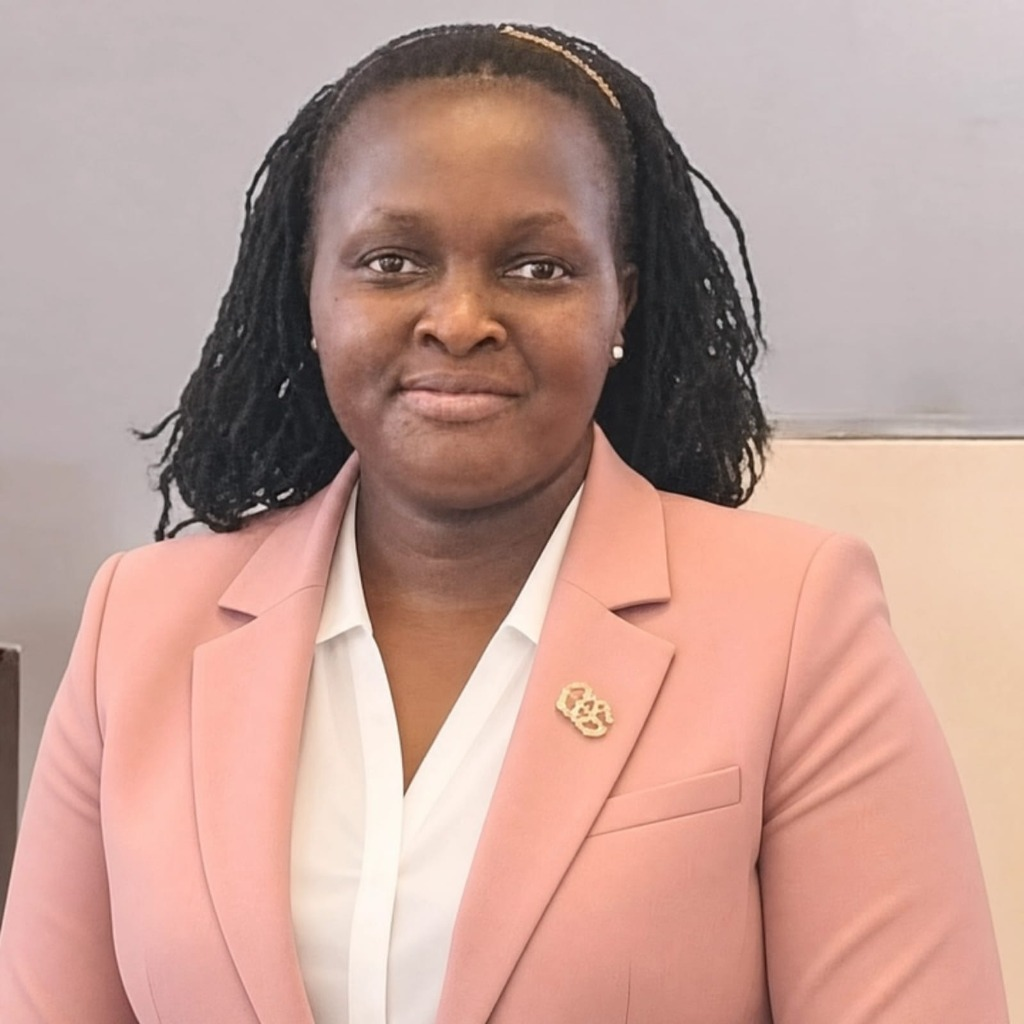
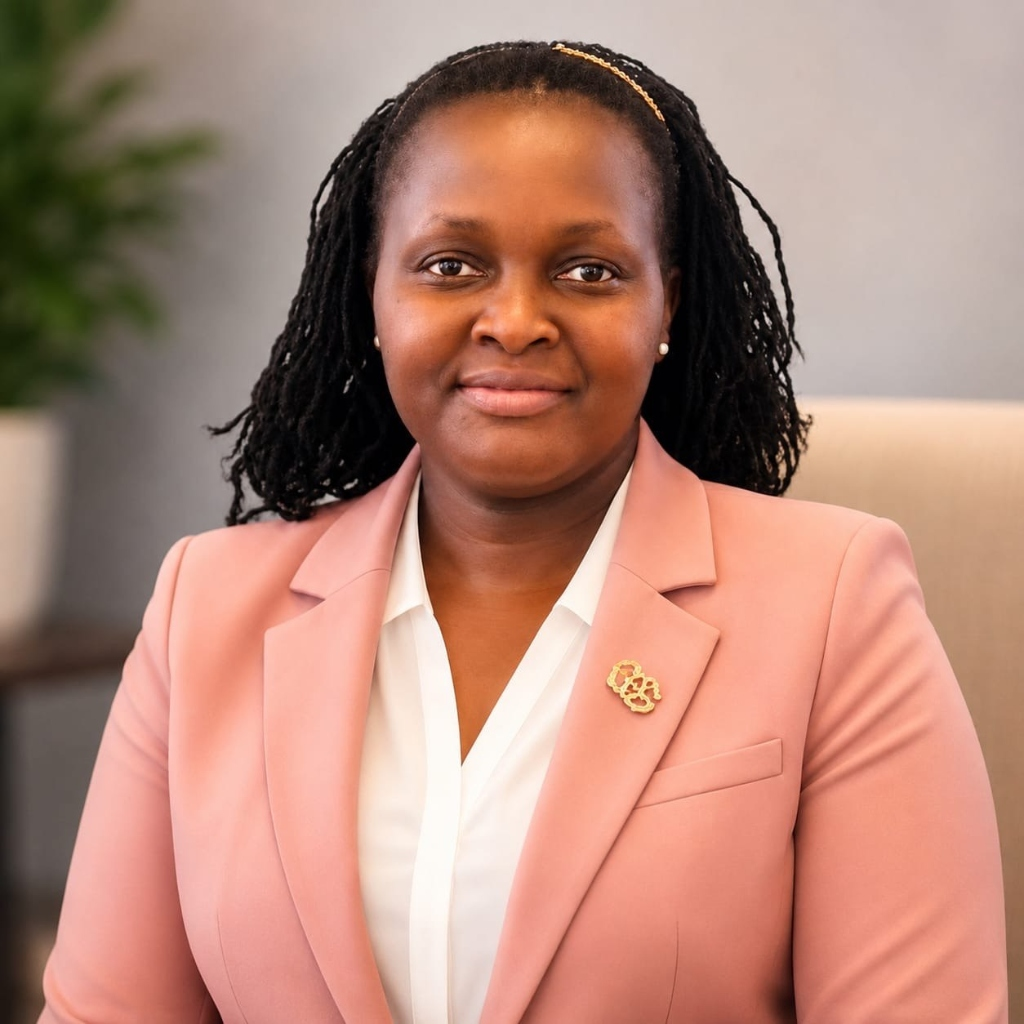
feat: add new board members (Imelda, Reuben, Jane) and update team/about pages, add schema markup

diff --git a/app/about/page.tsx b/app/about/page.tsx
@@ -212,10 +212,93 @@ export default function About() {
       {/* Our Board */}
       <section id="board" className="py-5" style={{ backgroundColor: "#181818" }}>
         <div className="container text-center">
-          <h2 className="fw-bold mb-4" style={{ color: "#F4CE6B" }}>Our Board</h2>
-          <p className="lead mx-auto text-light" style={{ maxWidth: "800px" }}>
-            Our Board of Directors profiles are currently being finalized and will be published soon. The Bold Move Foundation is governed by a diverse board of professionals dedicated to strategic oversight, accountability, and sustainable development.
-          </p>
+          <h2 className="fw-bold mb-5" style={{ color: "#F4CE6B" }}>Our Board</h2>
+          <div className="row g-4 justify-content-center">
+            <div className="col-lg-4 col-md-6">
+              <div className="team-card text-light p-4">
+                <img src="/images/damaris.jpg" alt="Dr. Damaris Felistus Mulwa" className="team-photo mb-3" />
+                <h3 style={{ color: "#F4CE6B" }}>Dr. Damaris Felistus Mulwa, PhD</h3>
+                <p className="text-warning fw-bold small mb-3">Chairperson of the Board</p>
+                <div className="small text-start">
+                  <p className="mb-0">
+                    Dr. Damaris Felistus Mulwa is the Chairperson of the Board and co-founding director of the Bold Move Foundation. She is a Lecturer in the Department of Statistics and Actuarial Sciences at Jomo Kenyatta University of Agriculture and Technology, Kenya. She holds a PhD in Mathematics from Sokoine University of Agriculture, Tanzania.
+                  </p>
+                </div>
+              </div>
+            </div>
+            <div className="col-lg-4 col-md-6">
+              <div className="team-card text-light p-4">
+                <img src="/images/millicent.jpg" alt="Millicent Willy" className="team-photo mb-3" />
+                <h3 style={{ color: "#F4CE6B" }}>Millicent Willy, CPA-K</h3>
+                <p className="text-warning fw-bold small mb-3">Treasurer of the Board</p>
+                <div className="small text-start">
+                  <p className="mb-0">
+                    Millicent is the Treasurer of the Board and Co-Founder of the Bold Move Foundation. She is a finance and development professional with over a decade of experience across the private sector and nonprofit development space, specializing in grants management, donor compliance, and financial strategy.
+                  </p>
+                </div>
+              </div>
+            </div>
+            <div className="col-lg-4 col-md-6">
+              <div className="team-card text-light p-4">
+                <img src="/images/imelda.png" alt="Imelda Ochari" className="team-photo mb-3" />
+                <h3 style={{ color: "#F4CE6B" }}>Imelda Ochari</h3>
+                <p className="text-warning fw-bold small mb-3">Board Member & MEAL Specialist</p>
+                <div className="small text-start">
+                  <p className="mb-3">
+                    Imelda Ochari is a Research, Monitoring, Evaluation, and Learning (MEAL) Specialist with 20 years of experience in Health Systems Strengthening, focusing on Primary Healthcare (PHC) research and improvement across Africa and Asia. Her expertise spans impact measurement, data visualization, digital health solutions, and policy analysis, with a strong commitment to gender integration and inclusive data systems that advance health equity.
+                  </p>
+                  <p className="mb-3">
+                    She has successfully led large-scale PHC and Community-Based Surveillance (CBS) studies in Kenya, Tanzania, Nigeria, and Indonesia, conducting systems assessments at public health centers and sub-national levels, identifying gaps, and providing actionable recommendations for strengthening surveillance and response capacity. She has developed detailed M&E strategies aligned with project objectives and resources, leveraging digital tools for real-time monitoring and decision-making.
+                  </p>
+                  <p className="mb-3">
+                    Her experience includes designing and implementing digital data collection platforms, mentoring national staff on documenting lessons from CBS expansion, and facilitating capacity-building workshops for national surveillance teams. She excels in translating research findings into policy and practice, contributing to evidence-based reforms, digital innovations, and sustainable improvements in healthcare delivery, particularly for marginalized populations.
+                  </p>
+                  <p className="mb-0">
+                    Imelda is pursuing a PhD in Health Systems Management at Kenya Methodist University. She holds a Master's Degree in Community Health and Development from Great Lakes University of Kisumu, Kenya, and a Bachelor's Degree in Biomedical Sciences and Technology from Maseno University, Kenya.
+                  </p>
+                </div>
+              </div>
+            </div>
+            <div className="col-lg-4 col-md-6">
+              <div className="team-card text-light p-4">
+                <img src="/images/reuben.jpg" alt="Reuben Manyiza" className="team-photo mb-3" />
+                <h3 style={{ color: "#F4CE6B" }}>Reuben Manyiza</h3>
+                <p className="text-warning fw-bold small mb-3">Board Member & Finance Operations Expert</p>
+                <div className="small text-start">
+                  <p className="mb-3">
+                    Reuben Manyiza is a Global Process Expert with more than 15 years of comprehensive experience in finance and accounting. Serving as a key strategic partner to finance operations, he bridges the gap between financial governance and operational agility.
+                  </p>
+                  <p className="mb-3">
+                    A certified Lean Office Green Belt, Reuben is an expert in organizational design, waste elimination, and continuous improvement. Throughout his career, he has successfully spearheaded cross-functional initiatives aimed at stripping away systemic inefficiencies, optimizing global workflows, and maximizing bottom-line productivity with a Leading Multinational in the Testing Verification and Certification Industry (TIC).
+                  </p>
+                  <p className="mb-3">
+                    Known for a data-driven approach and a collaborative leadership style, Reuben transforms complex finance operations into streamlined, high-performing engines that support long-term Organization's strategy.
+                  </p>
+                  <p className="mb-0">
+                    He holds a Bachelor's degree from Kenyatta University and is a CPA-K. He is currently pursuing a Master's degree at Strathmore University and is a holder of a Green Belt in Lean Office.
+                  </p>
+                </div>
+              </div>
+            </div>
+            <div className="col-lg-4 col-md-6">
+              <div className="team-card text-light p-4">
+                <img src="/images/jane.png" alt="Prof Jane Catherine Ngila" className="team-photo mb-3" />
+                <h3 style={{ color: "#F4CE6B" }}>Prof Jane Catherine Ngila</h3>
+                <p className="text-warning fw-bold small mb-3">Board Member & STEM Education Expert</p>
+                <div className="small text-start">
+                  <p className="mb-3">
+                    Prof. Jane Catherine Ngila is currently the Executive Director of the African Foundation for Women and Youth in Education, Science, Technology and Innovation (ESTI). The vision of AFoWYESTI is to promote access to quality education, alleviate poverty, and offer mentorship programmes for women and youth in STEM.
+                  </p>
+                  <p className="mb-3">
+                    She is the immediate former Interim Executive Director of the African Academy of Sciences (AAS). She is a former member of the UN 10-Member Group for technology facilitation mechanism on STI for SDGs; UNESCO International Consultative Group of Experts for Women in Science; Council Member of United Nations University; Member of International Organization for Chemical Sciences in Development (IOCD); and a Council Member of United Nations University. She is a Fellow of TWAS, AAS, and ASSAf. She received the 2025 IUPAC Distinguished Women in Chemistry Award, the 2021 L'Oréal-UNESCO FWIS representing Africa and the Middle East, the 2017 African Union-Kwame Nkrumah Women Scientific Awards, and the 2016 South Africa Distinguished Women in Science Awards.
+                  </p>
+                  <p className="mb-0">
+                    She has previously held the following teaching and management positions: Deputy Vice Chancellor of Riara University for Academic Affairs; Deputy Director of the Institute of Oil and Gas, Kenya Pipeline Company; Professor and Head of Applied Chemistry at University of Johannesburg; and Senior Lecturer/Lecturer at University of KwaZulu-Natal, University of Botswana, and Kenyatta University.
+                  </p>
+                </div>
+              </div>
+            </div>
+          </div>
         </div>
       </section>
 

diff --git a/app/team/page.tsx b/app/team/page.tsx
@@ -42,6 +42,27 @@ export default function Team() {
                 <p>Contributes to strategic planning, project execution, and stakeholder engagement.</p>
               </div>
             </div>
+            <div className="col-md-6 col-lg-4">
+              <div className="team-card p-4">
+                <h4>Imelda Ochari</h4>
+                <p className="text-warning fw-medium">Member</p>
+                <p>Research, Monitoring, Evaluation, and Learning (MEAL) Specialist with 20 years of experience in Health Systems Strengthening.</p>
+              </div>
+            </div>
+            <div className="col-md-6 col-lg-4">
+              <div className="team-card p-4">
+                <h4>Reuben Manyiza</h4>
+                <p className="text-warning fw-medium">Member</p>
+                <p>Global Process Expert with over 15 years of experience in finance, accounting, and organizational design.</p>
+              </div>
+            </div>
+            <div className="col-md-6 col-lg-4">
+              <div className="team-card p-4">
+                <h4>Prof Jane Catherine Ngila</h4>
+                <p className="text-warning fw-medium">Member</p>
+                <p>Executive Director of AFoWYESTI and former Interim Executive Director of AAS, with extensive experience in STEM education and research.</p>
+              </div>
+            </div>
           </div>
         </div>
       </section>

diff --git a/app/page.tsx b/app/page.tsx
@@ -3,6 +3,24 @@ import Link from "next/link";
 export default function Home() {
   return (
     <main>
+      {/* Organization Schema */}
+      <script
+        type="application/ld+json"
+        dangerouslySetInnerHTML={{
+          __html: JSON.stringify({
+            "@context": "https://schema.org",
+            "@type": "NonProfit",
+            "name": "The Bold Move Foundation",
+            "url": "https://www.theboldmovefoundation.org",
+            "description": "The Bold Move Foundation empowers youth, women, and persons with disabilities through education and digital skills training.",
+            "address": {
+              "@type": "PostalAddress",
+              "addressCountry": "Kenya"
+            },
+            "sameAs": []
+          })
+        }}
+      />
       {/* Hero */}
       <section className="hero">
         <div className="hero-content text-center px-4">